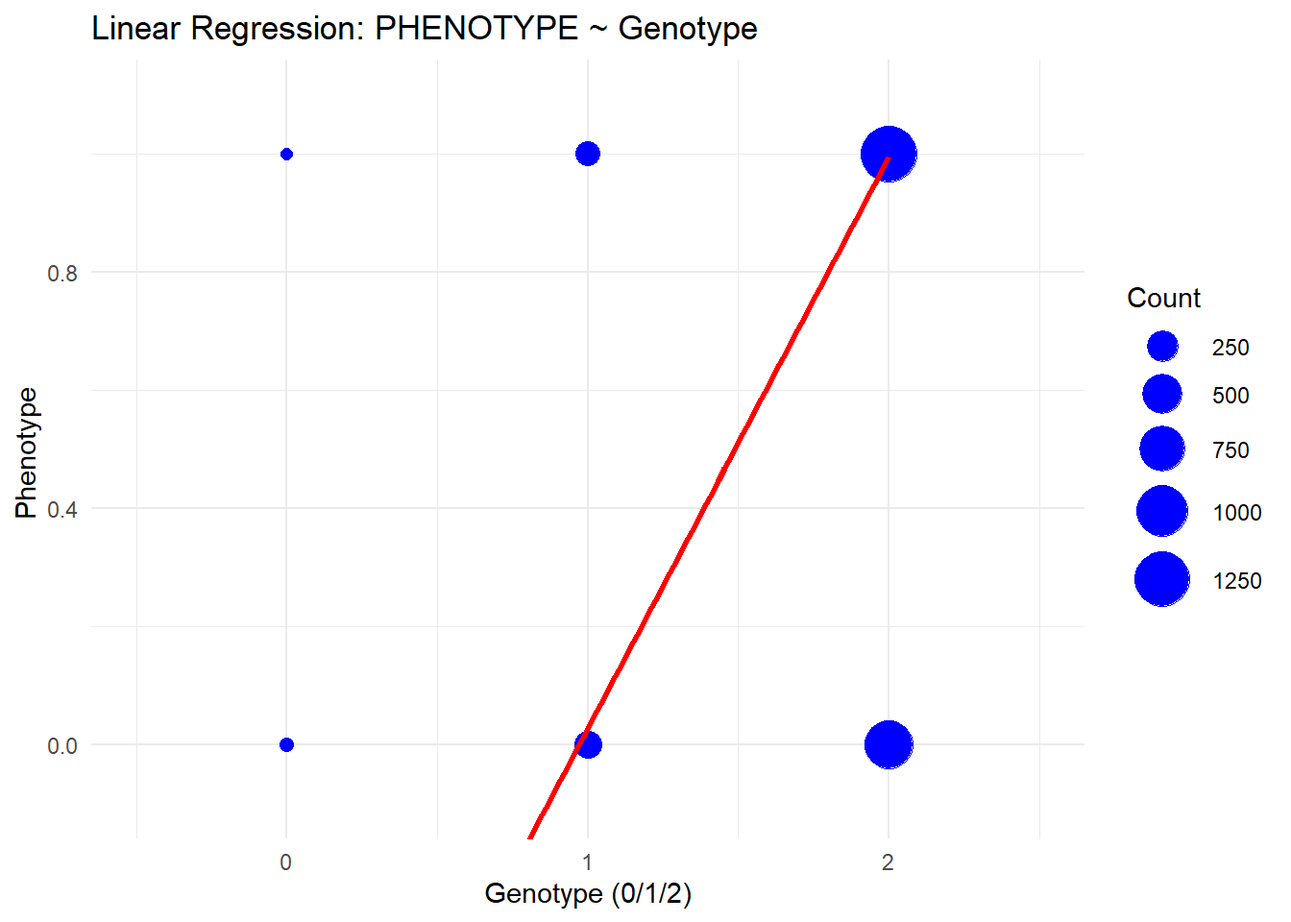
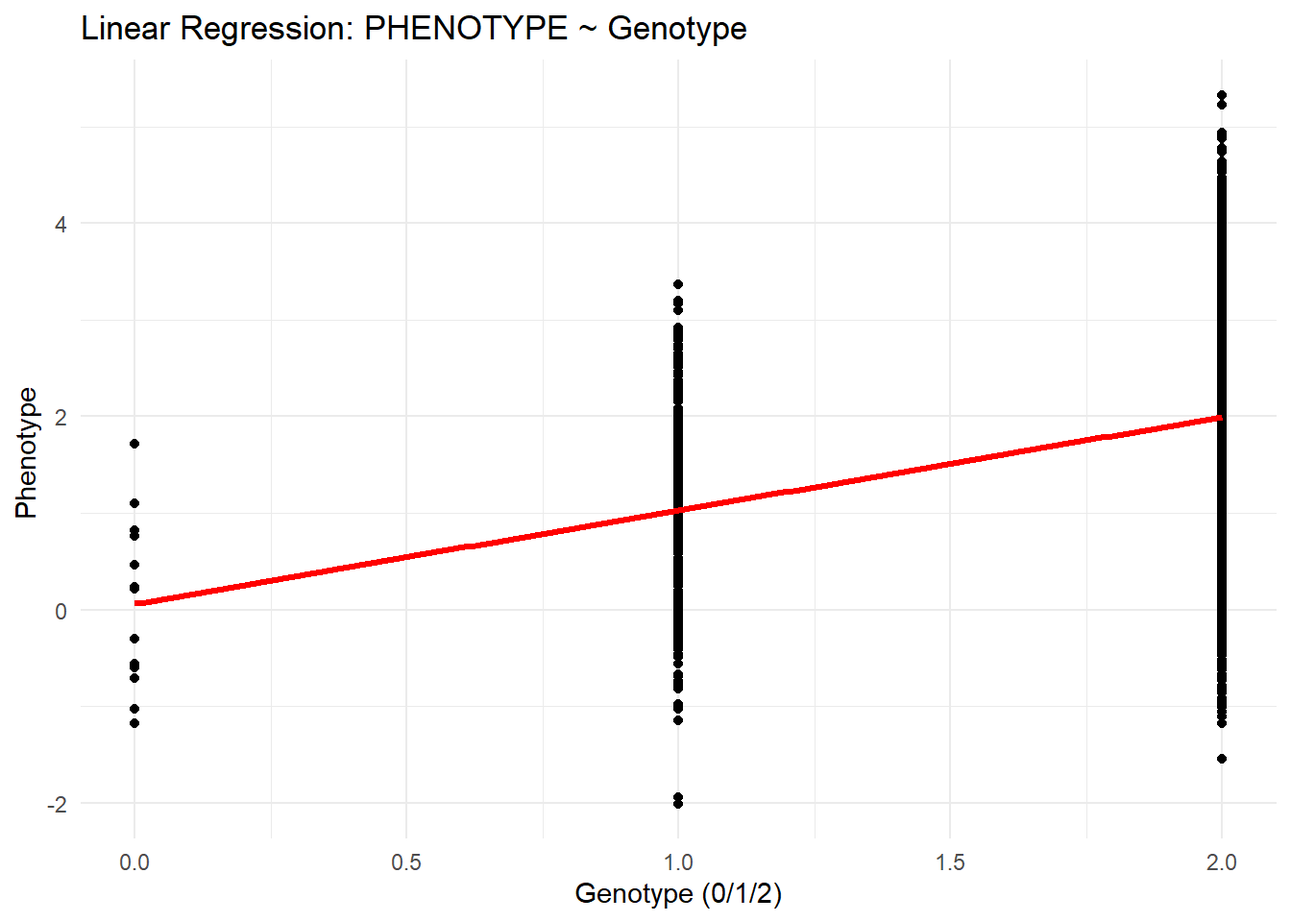
Re-rendered the Quarto document.

diff --git a/02_activities/assignments/assignment_1.html b/02_activities/assignments/assignment_1.html
@@ -161,12 +161,11 @@ pre > code.sourceCode > span > a:first-child::before { text-decoration: underlin
 <li>Load the genotype matrix for SNPs rs1861, rs3813199, rs3128342, and rs11804831 using additive coding. What are the allele frequencies (AFs) for these four SNPs?</li>
 </ol>
 <div class="cell">
-<div class="code-copy-outer-scaffold"><div class="sourceCode cell-code" id="cb8"><pre class="sourceCode bash code-with-copy"><code class="sourceCode bash"><span id="cb8-1"><a href="#cb8-1" aria-hidden="true" tabindex="-1"></a><span class="bu">printf</span> <span class="st">"%s\n"</span> rs1861 rs3813199 rs3128342 rs11804831 <span class="op">&gt;</span> ./02_activities/data/snplist.txt</span>
+<div class="code-copy-outer-scaffold"><div class="sourceCode cell-code" id="cb8"><pre class="sourceCode bash code-with-copy"><code class="sourceCode bash"><span id="cb8-1"><a href="#cb8-1" aria-hidden="true" tabindex="-1"></a><span class="bu">printf</span> <span class="st">"%s\n"</span> rs1861 rs3813199 rs3128342 rs11804831 <span class="op">&gt;</span> ./gen_data/02_activities/data/snplist.txt</span>
 <span id="cb8-2"><a href="#cb8-2" aria-hidden="true" tabindex="-1"></a></span>
 <span id="cb8-3"><a href="#cb8-3" aria-hidden="true" tabindex="-1"></a><span class="ex">plink2</span> <span class="at">--bfile</span> ./gen_data/02_activities/data/gwa.qc.A1 <span class="at">--extract</span> ./gen_data/02_activities/data/snplist.txt <span class="at">--freq</span> <span class="at">--out</span> ./gen_data/02_activities/data/gwa_qc_A1_freq</span></code></pre></div><button title="Copy to Clipboard" class="code-copy-button"><i class="bi"></i></button></div>
 <div class="cell-output cell-output-stdout">
-<pre><code>/c/PROGRA~1/Git/usr/bin/bash: line 1: ./02_activities/data/snplist.txt: No such file or directory
-PLINK v2.0.0-a.7 AVX2 (10 Jan 2026)                 cog-genomics.org/plink/2.0/
+<pre><code>PLINK v2.0.0-a.7 AVX2 (10 Jan 2026)                 cog-genomics.org/plink/2.0/
 (C) 2005-2026 Shaun Purcell, Christopher Chang    GNU General Public License v3
 Logging to ./gen_data/02_activities/data/gwa_qc_A1_freq.log.
 Options in effect:
@@ -175,8 +174,9 @@ Options in effect:
   --freq
   --out ./gen_data/02_activities/data/gwa_qc_A1_freq
 
-Start time: Fri Mar 13 14:33:37 2026
+Start time: Sat Mar 14 13:58:21 2026
 12046 MiB RAM detected; reserving 6023 MiB for main workspace.
+Allocated 4517 MiB successfully, after larger attempt(s) failed.
 Using up to 12 threads (change this with --threads).
 4000 samples (2000 females, 2000 males; 4000 founders) loaded from
 ./gen_data/02_activities/data/gwa.qc.A1.fam.
@@ -187,7 +187,7 @@ Calculating allele frequencies... 0%done.
 --freq: 0%25%50%75%
 --freq: Allele frequencies (founders only) written to
 ./gen_data/02_activities/data/gwa_qc_A1_freq.afreq .
-End time: Fri Mar 13 14:33:37 2026</code></pre>
+End time: Sat Mar 14 13:58:22 2026</code></pre>
 </div>
 </div>
 <div class="cell">
@@ -202,10 +202,10 @@ End time: Fri Mar 13 14:33:37 2026</code></pre>
 3:      1  rs3128342      C      A                Y 0.3051210   7928
 4:      1     rs1861      C      A                Y 0.0539859   7928</code></pre>
 </div>
-<div class="code-copy-outer-scaffold"><div class="sourceCode cell-code" id="cb12"><pre class="sourceCode r code-with-copy"><code class="sourceCode r"><span id="cb12-1"><a href="#cb12-1" aria-hidden="true" tabindex="-1"></a><span class="co">#rs3813199 AF is 0.0569126</span></span>
-<span id="cb12-2"><a href="#cb12-2" aria-hidden="true" tabindex="-1"></a><span class="co">#rs11804831 AF is 0.154341</span></span>
-<span id="cb12-3"><a href="#cb12-3" aria-hidden="true" tabindex="-1"></a><span class="co">#rs3128342 AF is 0.304121</span></span>
-<span id="cb12-4"><a href="#cb12-4" aria-hidden="true" tabindex="-1"></a><span class="co">#rs1861 AF is 0.0539859</span></span></code></pre></div><button title="Copy to Clipboard" class="code-copy-button"><i class="bi"></i></button></div>
+<div class="code-copy-outer-scaffold"><div class="sourceCode cell-code" id="cb12"><pre class="sourceCode r code-with-copy"><code class="sourceCode r"><span id="cb12-1"><a href="#cb12-1" aria-hidden="true" tabindex="-1"></a><span class="co">#rs3813199 alt AF is 0.0569126. The ref AF is 0.943087.</span></span>
+<span id="cb12-2"><a href="#cb12-2" aria-hidden="true" tabindex="-1"></a><span class="co">#rs11804831 AF is 0.154341. The ref AF is 0.845659.</span></span>
+<span id="cb12-3"><a href="#cb12-3" aria-hidden="true" tabindex="-1"></a><span class="co">#rs3128342 AF is 0.304121. The ref AF is 0.694879.</span></span>
+<span id="cb12-4"><a href="#cb12-4" aria-hidden="true" tabindex="-1"></a><span class="co">#rs1861 AF is 0.0539859. The ref AF is 0.946014.</span></span></code></pre></div><button title="Copy to Clipboard" class="code-copy-button"><i class="bi"></i></button></div>
 </div>
 <ol start="2" type="i">
 <li>What are the minor allele frequencies (MAFs) for these four SNPs?</li>
@@ -223,9 +223,9 @@ Options in effect:
   --maf 0.5
   --out ./gen_data/02_activities/data/gwa_qc_A1_maf
 
-Start time: Fri Mar 13 14:33:37 2026
+Start time: Sat Mar 14 13:58:22 2026
 12046 MiB RAM detected; reserving 6023 MiB for main workspace.
-Allocated 3387 MiB successfully, after larger attempt(s) failed.
+Allocated 4517 MiB successfully, after larger attempt(s) failed.
 Using up to 12 threads (change this with --threads).
 4000 samples (2000 females, 2000 males; 4000 founders) loaded from
 ./gen_data/02_activities/data/gwa.qc.A1.fam.
@@ -236,7 +236,7 @@ Calculating allele frequencies... 0%done.
 --freq: 0%25%50%75%
 --freq: Allele frequencies (founders only) written to
 ./gen_data/02_activities/data/gwa_qc_A1_maf.afreq .
-End time: Fri Mar 13 14:33:41 2026</code></pre>
+End time: Sat Mar 14 13:58:22 2026</code></pre>
 </div>
 </div>
 <div class="cell">
@@ -272,7 +272,7 @@ Options in effect:
   --hardy
   --out ./gen_data/02_activities/data/gwa_qc_A1_hwe
 
-Start time: Fri Mar 13 14:33:43 2026
+Start time: Sat Mar 14 13:58:22 2026
 12046 MiB RAM detected; reserving 6023 MiB for main workspace.
 Allocated 4517 MiB successfully, after larger attempt(s) failed.
 Using up to 12 threads (change this with --threads).
@@ -284,7 +284,7 @@ Calculating allele frequencies... 0%64%done.
 --hardy: 0%1%2%3%4%5%6%7%8%9%10%11%12%13%14%15%16%17%18%19%20%21%22%23%24%25%26%27%28%29%30%31%32%33%34%35%36%37%38%39%40%41%42%43%44%45%46%47%48%49%50%51%52%53%54%55%56%57%58%59%60%61%62%63%64%65%66%67%68%69%70%71%72%73%74%75%76%77%78%79%80%81%82%83%84%85%86%87%88%89%90%91%92%93%94%95%96%97%98%99%
 --hardy: Autosomal Hardy-Weinberg report (founders only) written to
 ./gen_data/02_activities/data/gwa_qc_A1_hwe.hardy .
-End time: Fri Mar 13 14:33:44 2026</code></pre>
+End time: Sat Mar 14 13:58:24 2026</code></pre>
 </div>
 </div>
 <div class="cell">
@@ -331,9 +331,9 @@ Options in effect:
   --hardy
   --out ./gen_data/02_activities/data/gwa_qc_A1_subset_hwe
 
-Start time: Fri Mar 13 14:33:45 2026
+Start time: Sat Mar 14 13:58:24 2026
 12046 MiB RAM detected; reserving 6023 MiB for main workspace.
-Allocated 3387 MiB successfully, after larger attempt(s) failed.
+Allocated 2540 MiB successfully, after larger attempt(s) failed.
 Using up to 12 threads (change this with --threads).
 4000 samples (2000 females, 2000 males; 4000 founders) loaded from
 ./gen_data/02_activities/data/gwa.qc.A1.fam.
@@ -344,7 +344,7 @@ Calculating allele frequencies... 0%done.
 --hardy: 0%25%50%75%
 --hardy: Autosomal Hardy-Weinberg report (founders only) written to
 ./gen_data/02_activities/data/gwa_qc_A1_subset_hwe.hardy .
-End time: Fri Mar 13 14:33:49 2026
+End time: Sat Mar 14 13:58:27 2026
 #CHROM  ID  A1  AX  HOM_A1_CT   HET_A1_CT   TWO_AX_CT   O(HET_A1)   E(HET_A1)   P
 1   rs3813199   G   A   3531    428 12  0.107781    0.107347    1
 1   rs11804831  T   C   2820    1061    81  0.267794    0.26104 0.113354
@@ -370,7 +370,7 @@ Options in effect:
   --extract ./gen_data/02_activities/data/snplist.txt
   --out ./gen_data/02_activities/data/geno.additive
 
-Start time: Fri Mar 13 14:33:52 2026
+Start time: Sat Mar 14 13:58:27 2026
 12046 MiB RAM detected; reserving 6023 MiB for main workspace.
 Allocated 3387 MiB successfully, after larger attempt(s) failed.
 Using up to 12 threads (change this with --threads).
@@ -383,19 +383,16 @@ Using up to 12 threads (change this with --threads).
 
 --export A pass 1/1: loading... 0%writing... 0%1%2%3%4%5%6%7%8%9%10%11%12%13%14%15%16%17%18%19%20%21%22%23%24%25%26%27%28%29%30%31%32%33%34%35%36%37%38%39%40%41%42%43%44%45%46%47%48%49%50%51%52%53%54%55%56%57%58%59%60%61%62%63%64%65%66%67%68%69%70%71%72%73%74%75%76%77%78%79%80%81%82%83%84%85%86%87%88%89%90%91%92%93%94%95%96%97%98%99% done.
 --export A: ./gen_data/02_activities/data/geno.additive.raw written.
-End time: Fri Mar 13 14:33:56 2026</code></pre>
+End time: Sat Mar 14 13:58:30 2026</code></pre>
 </div>
 </div>
 <div class="cell">
 <div class="code-copy-outer-scaffold"><div class="sourceCode cell-code" id="cb26"><pre class="sourceCode r code-with-copy"><code class="sourceCode r"><span id="cb26-1"><a href="#cb26-1" aria-hidden="true" tabindex="-1"></a><span class="co"># Load genotype data</span></span>
 <span id="cb26-2"><a href="#cb26-2" aria-hidden="true" tabindex="-1"></a>geno_subset <span class="ot">&lt;-</span> <span class="fu">fread</span>(<span class="st">"gen_data/02_activities/data/geno.additive.raw"</span>)</span>
 <span id="cb26-3"><a href="#cb26-3" aria-hidden="true" tabindex="-1"></a>geno_subset<span class="ot">=</span><span class="fu">na.omit</span>(geno_subset)</span>
-<span id="cb26-4"><a href="#cb26-4" aria-hidden="true" tabindex="-1"></a>geno_subset<span class="sc">$</span>PHENOTYPE<span class="ot">=</span>geno_subset<span class="sc">$</span>PHENOTYPE<span class="dv">-1</span></span>
-<span id="cb26-5"><a href="#cb26-5" aria-hidden="true" tabindex="-1"></a>freq[freq<span class="sc">$</span>ID<span class="sc">==</span><span class="st">'rs1861'</span>,]</span></code></pre></div><button title="Copy to Clipboard" class="code-copy-button"><i class="bi"></i></button></div>
+<span id="cb26-4"><a href="#cb26-4" aria-hidden="true" tabindex="-1"></a>geno_subset[geno_subset<span class="sc">$</span>ID<span class="sc">==</span><span class="st">'rs1861'</span>,]</span></code></pre></div><button title="Copy to Clipboard" class="code-copy-button"><i class="bi"></i></button></div>
 <div class="cell-output cell-output-stdout">
-<pre><code>   #CHROM     ID    REF    ALT PROVISIONAL_REF? ALT_FREQS OBS_CT
-    &lt;int&gt; &lt;char&gt; &lt;char&gt; &lt;char&gt;           &lt;char&gt;     &lt;num&gt;  &lt;int&gt;
-1:      1 rs1861      C      A                Y 0.0539859   7928</code></pre>
+<pre><code>Empty data.table (0 rows and 10 cols): FID,IID,PAT,MAT,SEX,PHENOTYPE...</code></pre>
 </div>
 <div class="code-copy-outer-scaffold"><div class="sourceCode cell-code" id="cb28"><pre class="sourceCode r code-with-copy"><code class="sourceCode r"><span id="cb28-1"><a href="#cb28-1" aria-hidden="true" tabindex="-1"></a><span class="co"># Fit logistic regression model</span></span>
 <span id="cb28-2"><a href="#cb28-2" aria-hidden="true" tabindex="-1"></a>model <span class="ot">&lt;-</span> <span class="fu">glm</span>(PHENOTYPE <span class="sc">~</span> rs1861_C, <span class="at">data =</span> geno_subset, <span class="at">family =</span> <span class="st">"gaussian"</span>)</span>
@@ -409,7 +406,7 @@ glm(formula = PHENOTYPE ~ rs1861_C, family = "gaussian", data = geno_subset)
 
 Coefficients:
             Estimate Std. Error t value Pr(&gt;|t|)    
-(Intercept) -0.93891    0.09626  -9.753   &lt;2e-16 ***
+(Intercept)  0.06109    0.09626   0.635    0.526    
 rs1861_C     0.96698    0.05016  19.279   &lt;2e-16 ***
 ---
 Signif. codes:  0 '***' 0.001 '**' 0.01 '*' 0.05 '.' 0.1 ' ' 1
@@ -427,7 +424,7 @@ Number of Fisher Scoring iterations: 2</code></pre>
 <ol start="2" type="i">
 <li>How would you interpret the beta coefficient from this regression?</li>
 </ol>
-<pre><code>The regression coefficient for rs1861 is 0.96698 (p &lt;2e-16). This indicates that each additional copy of the C allele is almost 1 to 1 linearly associated with increased odds of being a case. The significant p-value suggests evidence of an association between this SNP and the phenotype in our sample.
+<pre><code>The regression coefficient for rs1861 is 0.96698 (p &lt;2e-16). This indicates that each additional copy of the C allele is almost 1 to 1 linearly associated with increased odds of the expected phenotype. The significant p-value suggests evidence of an association between this SNP and the phenotype in our sample.
 </code></pre>
 <ol start="3" type="i">
 <li>Plot the scatterplot of phenotype versus the genotype of SNP rs1861. Add the regression line to the plot.</li>
@@ -441,49 +438,29 @@ Number of Fisher Scoring iterations: 2</code></pre>
 <span id="cb32-6"><a href="#cb32-6" aria-hidden="true" tabindex="-1"></a><span class="co"># for each genotype value in geno_range</span></span>
 <span id="cb32-7"><a href="#cb32-7" aria-hidden="true" tabindex="-1"></a> geno_range<span class="sc">$</span>predicted_prob <span class="ot">&lt;-</span> <span class="fu">predict</span>(model, <span class="at">newdata =</span> geno_range, <span class="at">type =</span> <span class="st">"response"</span>)</span>
 <span id="cb32-8"><a href="#cb32-8" aria-hidden="true" tabindex="-1"></a></span>
-<span id="cb32-9"><a href="#cb32-9" aria-hidden="true" tabindex="-1"></a><span class="co"># Start from the observed genotype dataset</span></span>
-<span id="cb32-10"><a href="#cb32-10" aria-hidden="true" tabindex="-1"></a>count_data <span class="ot">&lt;-</span> geno_subset <span class="sc">%&gt;%</span></span>
-<span id="cb32-11"><a href="#cb32-11" aria-hidden="true" tabindex="-1"></a><span class="co"># Round phenotype values to the nearest integer</span></span>
-<span id="cb32-12"><a href="#cb32-12" aria-hidden="true" tabindex="-1"></a>  <span class="fu">mutate</span>(<span class="at">PHENOTYPE =</span> <span class="fu">round</span>(PHENOTYPE)) <span class="sc">%&gt;%</span>  </span>
-<span id="cb32-13"><a href="#cb32-13" aria-hidden="true" tabindex="-1"></a><span class="co"># Remove rows with missing genotype or missing phenotype</span></span>
-<span id="cb32-14"><a href="#cb32-14" aria-hidden="true" tabindex="-1"></a>  <span class="fu">filter</span>(<span class="sc">!</span><span class="fu">is.na</span>(rs1861_C), <span class="sc">!</span><span class="fu">is.na</span>(PHENOTYPE)) <span class="sc">%&gt;%</span></span>
-<span id="cb32-15"><a href="#cb32-15" aria-hidden="true" tabindex="-1"></a> <span class="co"># Group data by genotype value and phenotype category </span></span>
-<span id="cb32-16"><a href="#cb32-16" aria-hidden="true" tabindex="-1"></a>  <span class="fu">group_by</span>(rs1861_C, PHENOTYPE) <span class="sc">%&gt;%</span></span>
-<span id="cb32-17"><a href="#cb32-17" aria-hidden="true" tabindex="-1"></a><span class="co"># Count how many observations fall into each genotype-phenotype combination</span></span>
-<span id="cb32-18"><a href="#cb32-18" aria-hidden="true" tabindex="-1"></a>  <span class="fu">summarise</span>(<span class="at">count =</span> <span class="fu">n</span>(), <span class="at">.groups =</span> <span class="st">"drop"</span>)</span>
-<span id="cb32-19"><a href="#cb32-19" aria-hidden="true" tabindex="-1"></a></span>
-<span id="cb32-20"><a href="#cb32-20" aria-hidden="true" tabindex="-1"></a><span class="co"># Start building the plot</span></span>
-<span id="cb32-21"><a href="#cb32-21" aria-hidden="true" tabindex="-1"></a>p1<span class="ot">=</span><span class="fu">ggplot</span>() <span class="sc">+</span></span>
-<span id="cb32-22"><a href="#cb32-22" aria-hidden="true" tabindex="-1"></a><span class="co"># Add points showing observed genotype-phenotype combinations</span></span>
-<span id="cb32-23"><a href="#cb32-23" aria-hidden="true" tabindex="-1"></a>  <span class="fu">geom_point</span>(</span>
-<span id="cb32-24"><a href="#cb32-24" aria-hidden="true" tabindex="-1"></a>    <span class="co"># Use the summarized count_data for the points</span></span>
-<span id="cb32-25"><a href="#cb32-25" aria-hidden="true" tabindex="-1"></a>    <span class="at">data =</span> count_data,</span>
-<span id="cb32-26"><a href="#cb32-26" aria-hidden="true" tabindex="-1"></a>    <span class="co"># Map genotype to x-axis, phenotype to y-axis, and count to point size</span></span>
-<span id="cb32-27"><a href="#cb32-27" aria-hidden="true" tabindex="-1"></a>    <span class="fu">aes</span>(<span class="at">x =</span> rs1861_C, <span class="at">y =</span> PHENOTYPE, <span class="at">size =</span> count),</span>
-<span id="cb32-28"><a href="#cb32-28" aria-hidden="true" tabindex="-1"></a>    <span class="at">color =</span> <span class="st">"blue"</span></span>
-<span id="cb32-29"><a href="#cb32-29" aria-hidden="true" tabindex="-1"></a>  ) <span class="sc">+</span></span>
-<span id="cb32-30"><a href="#cb32-30" aria-hidden="true" tabindex="-1"></a>  <span class="co"># Add a regression line showing predicted probability across genotype values</span></span>
-<span id="cb32-31"><a href="#cb32-31" aria-hidden="true" tabindex="-1"></a>  <span class="fu">geom_line</span>(<span class="co"># Use the prediction data frame for the line</span></span>
-<span id="cb32-32"><a href="#cb32-32" aria-hidden="true" tabindex="-1"></a>    <span class="at">data =</span> geno_range,</span>
-<span id="cb32-33"><a href="#cb32-33" aria-hidden="true" tabindex="-1"></a>    <span class="fu">aes</span>(<span class="at">x =</span> rs1861_C, <span class="at">y =</span> predicted_prob),</span>
-<span id="cb32-34"><a href="#cb32-34" aria-hidden="true" tabindex="-1"></a>    <span class="at">color =</span> <span class="st">"red"</span>,</span>
-<span id="cb32-35"><a href="#cb32-35" aria-hidden="true" tabindex="-1"></a>    <span class="co"># Set line thickness</span></span>
-<span id="cb32-36"><a href="#cb32-36" aria-hidden="true" tabindex="-1"></a>    <span class="at">size =</span> <span class="fl">1.2</span></span>
-<span id="cb32-37"><a href="#cb32-37" aria-hidden="true" tabindex="-1"></a>  ) <span class="sc">+</span></span>
-<span id="cb32-38"><a href="#cb32-38" aria-hidden="true" tabindex="-1"></a>  <span class="co"># Control the size range of the points</span></span>
-<span id="cb32-39"><a href="#cb32-39" aria-hidden="true" tabindex="-1"></a>  <span class="fu">scale_size_continuous</span>(<span class="at">range =</span> <span class="fu">c</span>(<span class="dv">2</span>, <span class="dv">10</span>)) <span class="sc">+</span></span>
-<span id="cb32-40"><a href="#cb32-40" aria-hidden="true" tabindex="-1"></a>  <span class="fu">labs</span>(</span>
-<span id="cb32-41"><a href="#cb32-41" aria-hidden="true" tabindex="-1"></a>    <span class="at">title =</span> <span class="st">"Linear Regression: PHENOTYPE ~ Genotype"</span>,</span>
-<span id="cb32-42"><a href="#cb32-42" aria-hidden="true" tabindex="-1"></a>    <span class="at">x =</span> <span class="st">"Genotype (0/1/2)"</span>,</span>
-<span id="cb32-43"><a href="#cb32-43" aria-hidden="true" tabindex="-1"></a>    <span class="at">y =</span> <span class="st">"Phenotype "</span>,</span>
-<span id="cb32-44"><a href="#cb32-44" aria-hidden="true" tabindex="-1"></a>    <span class="at">size =</span> <span class="st">"Count"</span></span>
-<span id="cb32-45"><a href="#cb32-45" aria-hidden="true" tabindex="-1"></a>  ) <span class="sc">+</span></span>
-<span id="cb32-46"><a href="#cb32-46" aria-hidden="true" tabindex="-1"></a>  <span class="co"># Restrict the visible x- and y-axis range</span></span>
-<span id="cb32-47"><a href="#cb32-47" aria-hidden="true" tabindex="-1"></a>  <span class="fu">coord_cartesian</span>(<span class="at">xlim =</span> <span class="fu">c</span>(<span class="sc">-</span><span class="fl">0.5</span>, <span class="fl">2.5</span>), <span class="at">ylim =</span> <span class="fu">c</span>(<span class="sc">-</span><span class="fl">0.1</span>, <span class="fl">1.1</span>)) <span class="sc">+</span></span>
-<span id="cb32-48"><a href="#cb32-48" aria-hidden="true" tabindex="-1"></a>   <span class="co"># Apply a minimal theme for a clean appearance</span></span>
-<span id="cb32-49"><a href="#cb32-49" aria-hidden="true" tabindex="-1"></a>  <span class="fu">theme_minimal</span>()</span>
-<span id="cb32-50"><a href="#cb32-50" aria-hidden="true" tabindex="-1"></a></span>
-<span id="cb32-51"><a href="#cb32-51" aria-hidden="true" tabindex="-1"></a><span class="fu">print</span>(p1)</span></code></pre></div><button title="Copy to Clipboard" class="code-copy-button"><i class="bi"></i></button></div>
+<span id="cb32-9"><a href="#cb32-9" aria-hidden="true" tabindex="-1"></a><span class="co"># Start building the plot</span></span>
+<span id="cb32-10"><a href="#cb32-10" aria-hidden="true" tabindex="-1"></a>p1<span class="ot">=</span><span class="fu">ggplot</span>(geno_subset, <span class="fu">aes</span>(<span class="at">x=</span> rs1861_C, <span class="at">y =</span> PHENOTYPE)) <span class="sc">+</span></span>
+<span id="cb32-11"><a href="#cb32-11" aria-hidden="true" tabindex="-1"></a><span class="co"># Add points showing observed genotype-phenotype combinations</span></span>
+<span id="cb32-12"><a href="#cb32-12" aria-hidden="true" tabindex="-1"></a>  <span class="fu">geom_point</span>() <span class="sc">+</span></span>
+<span id="cb32-13"><a href="#cb32-13" aria-hidden="true" tabindex="-1"></a>  <span class="co"># Add a regression line showing predicted probability across genotype values</span></span>
+<span id="cb32-14"><a href="#cb32-14" aria-hidden="true" tabindex="-1"></a>  <span class="fu">geom_line</span>(<span class="co"># Use the prediction data frame for the line</span></span>
+<span id="cb32-15"><a href="#cb32-15" aria-hidden="true" tabindex="-1"></a>    <span class="at">data =</span> geno_range,</span>
+<span id="cb32-16"><a href="#cb32-16" aria-hidden="true" tabindex="-1"></a>    <span class="fu">aes</span>(<span class="at">x =</span> rs1861_C, <span class="at">y =</span> predicted_prob),</span>
+<span id="cb32-17"><a href="#cb32-17" aria-hidden="true" tabindex="-1"></a>    <span class="at">color =</span> <span class="st">"red"</span>,</span>
+<span id="cb32-18"><a href="#cb32-18" aria-hidden="true" tabindex="-1"></a>    <span class="co"># Set line thickness</span></span>
+<span id="cb32-19"><a href="#cb32-19" aria-hidden="true" tabindex="-1"></a>    <span class="at">size =</span> <span class="fl">1.2</span></span>
+<span id="cb32-20"><a href="#cb32-20" aria-hidden="true" tabindex="-1"></a>  ) <span class="sc">+</span></span>
+<span id="cb32-21"><a href="#cb32-21" aria-hidden="true" tabindex="-1"></a>  <span class="co"># Control the size range of the points</span></span>
+<span id="cb32-22"><a href="#cb32-22" aria-hidden="true" tabindex="-1"></a>  <span class="fu">scale_size_continuous</span>(<span class="at">range =</span> <span class="fu">c</span>(<span class="dv">2</span>, <span class="dv">10</span>)) <span class="sc">+</span></span>
+<span id="cb32-23"><a href="#cb32-23" aria-hidden="true" tabindex="-1"></a>  <span class="fu">labs</span>(</span>
+<span id="cb32-24"><a href="#cb32-24" aria-hidden="true" tabindex="-1"></a>    <span class="at">title =</span> <span class="st">"Linear Regression: PHENOTYPE ~ Genotype"</span>,</span>
+<span id="cb32-25"><a href="#cb32-25" aria-hidden="true" tabindex="-1"></a>    <span class="at">x =</span> <span class="st">"Genotype (0/1/2)"</span>,</span>
+<span id="cb32-26"><a href="#cb32-26" aria-hidden="true" tabindex="-1"></a>    <span class="at">y =</span> <span class="st">"Phenotype "</span></span>
+<span id="cb32-27"><a href="#cb32-27" aria-hidden="true" tabindex="-1"></a>  ) <span class="sc">+</span></span>
+<span id="cb32-28"><a href="#cb32-28" aria-hidden="true" tabindex="-1"></a>   <span class="co"># Apply a minimal theme for a clean appearance</span></span>
+<span id="cb32-29"><a href="#cb32-29" aria-hidden="true" tabindex="-1"></a>  <span class="fu">theme_minimal</span>()</span>
+<span id="cb32-30"><a href="#cb32-30" aria-hidden="true" tabindex="-1"></a></span>
+<span id="cb32-31"><a href="#cb32-31" aria-hidden="true" tabindex="-1"></a><span class="fu">print</span>(p1)</span></code></pre></div><button title="Copy to Clipboard" class="code-copy-button"><i class="bi"></i></button></div>
 <div class="cell-output-display">
 <div>
 <figure class="figure">
@@ -497,8 +474,8 @@ Number of Fisher Scoring iterations: 2</code></pre>
 <li>Convert the genotype coding for rs1861 to recessive coding.</li>
 </ol>
 <div class="cell">
-<div class="code-copy-outer-scaffold"><div class="sourceCode cell-code" id="cb34"><pre class="sourceCode r code-with-copy"><code class="sourceCode r"><span id="cb34-1"><a href="#cb34-1" aria-hidden="true" tabindex="-1"></a>geno_subset_dom <span class="ot">&lt;-</span> geno_subset  <span class="co"># make a copy</span></span>
-<span id="cb34-2"><a href="#cb34-2" aria-hidden="true" tabindex="-1"></a>geno_subset_dom[, <span class="dv">7</span><span class="sc">:</span><span class="fu">ncol</span>(geno_subset_dom)] <span class="ot">&lt;-</span> <span class="fu">as.data.frame</span>(</span>
+<div class="code-copy-outer-scaffold"><div class="sourceCode cell-code" id="cb34"><pre class="sourceCode r code-with-copy"><code class="sourceCode r"><span id="cb34-1"><a href="#cb34-1" aria-hidden="true" tabindex="-1"></a>geno_subset_rec <span class="ot">&lt;-</span> geno_subset  <span class="co"># make a copy</span></span>
+<span id="cb34-2"><a href="#cb34-2" aria-hidden="true" tabindex="-1"></a>geno_subset_rec[, <span class="dv">7</span><span class="sc">:</span><span class="fu">ncol</span>(geno_subset_rec)] <span class="ot">&lt;-</span> <span class="fu">as.data.frame</span>(</span>
 <span id="cb34-3"><a href="#cb34-3" aria-hidden="true" tabindex="-1"></a>  <span class="fu">lapply</span>(geno_subset[, <span class="dv">7</span><span class="sc">:</span><span class="fu">ncol</span>(geno_subset)], <span class="cf">function</span>(x) <span class="fu">ifelse</span>(x <span class="sc">==</span> <span class="dv">2</span>, <span class="dv">1</span>, <span class="dv">0</span>))</span>
 <span id="cb34-4"><a href="#cb34-4" aria-hidden="true" tabindex="-1"></a>)</span></code></pre></div><button title="Copy to Clipboard" class="code-copy-button"><i class="bi"></i></button></div>
 </div>
@@ -506,17 +483,17 @@ Number of Fisher Scoring iterations: 2</code></pre>
 <li>Conduct a linear regression to test the association between the recessive-coded rs1861 and the phenotype. What is the p-value?</li>
 </ol>
 <div class="cell">
-<div class="code-copy-outer-scaffold"><div class="sourceCode cell-code" id="cb35"><pre class="sourceCode r code-with-copy"><code class="sourceCode r"><span id="cb35-1"><a href="#cb35-1" aria-hidden="true" tabindex="-1"></a>model <span class="ot">&lt;-</span> <span class="fu">glm</span>(PHENOTYPE <span class="sc">~</span> rs1861_C, <span class="at">data =</span> geno_subset_dom, <span class="at">family =</span> <span class="st">"gaussian"</span>)</span>
+<div class="code-copy-outer-scaffold"><div class="sourceCode cell-code" id="cb35"><pre class="sourceCode r code-with-copy"><code class="sourceCode r"><span id="cb35-1"><a href="#cb35-1" aria-hidden="true" tabindex="-1"></a>model <span class="ot">&lt;-</span> <span class="fu">glm</span>(PHENOTYPE <span class="sc">~</span> rs1861_C, <span class="at">data =</span> geno_subset_rec, <span class="at">family =</span> <span class="st">"gaussian"</span>)</span>
 <span id="cb35-2"><a href="#cb35-2" aria-hidden="true" tabindex="-1"></a><span class="fu">summary</span>(model)</span></code></pre></div><button title="Copy to Clipboard" class="code-copy-button"><i class="bi"></i></button></div>
 <div class="cell-output cell-output-stdout">
 <pre><code>
 Call:
-glm(formula = PHENOTYPE ~ rs1861_C, family = "gaussian", data = geno_subset_dom)
+glm(formula = PHENOTYPE ~ rs1861_C, family = "gaussian", data = geno_subset_rec)
 
 Coefficients:
-             Estimate Std. Error t value Pr(&gt;|t|)    
-(Intercept) -0.006248   0.050047  -0.125    0.901    
-rs1861_C     1.001393   0.052882  18.936   &lt;2e-16 ***
+            Estimate Std. Error t value Pr(&gt;|t|)    
+(Intercept)  0.99375    0.05005   19.86   &lt;2e-16 ***
+rs1861_C     1.00139    0.05288   18.94   &lt;2e-16 ***
 ---
 Signif. codes:  0 '***' 0.001 '**' 0.01 '*' 0.05 '.' 0.1 ' ' 1
 
@@ -535,17 +512,17 @@ Number of Fisher Scoring iterations: 2</code></pre>
 </ol>
 <div class="cell">
 <div class="code-copy-outer-scaffold"><div class="sourceCode cell-code" id="cb38"><pre class="sourceCode r code-with-copy"><code class="sourceCode r"><span id="cb38-1"><a href="#cb38-1" aria-hidden="true" tabindex="-1"></a><span class="co"># Fit logistic regression model</span></span>
-<span id="cb38-2"><a href="#cb38-2" aria-hidden="true" tabindex="-1"></a>model <span class="ot">&lt;-</span> <span class="fu">glm</span>(PHENOTYPE <span class="sc">~</span> rs1861_C, <span class="at">data =</span> geno_subset_dom, <span class="at">family =</span> <span class="st">"gaussian"</span>)</span>
+<span id="cb38-2"><a href="#cb38-2" aria-hidden="true" tabindex="-1"></a>model <span class="ot">&lt;-</span> <span class="fu">glm</span>(PHENOTYPE <span class="sc">~</span> rs1861_C, <span class="at">data =</span> geno_subset_rec, <span class="at">family =</span> <span class="st">"gaussian"</span>)</span>
 <span id="cb38-3"><a href="#cb38-3" aria-hidden="true" tabindex="-1"></a><span class="fu">summary</span>(model)</span></code></pre></div><button title="Copy to Clipboard" class="code-copy-button"><i class="bi"></i></button></div>
 <div class="cell-output cell-output-stdout">
 <pre><code>
 Call:
-glm(formula = PHENOTYPE ~ rs1861_C, family = "gaussian", data = geno_subset_dom)
+glm(formula = PHENOTYPE ~ rs1861_C, family = "gaussian", data = geno_subset_rec)
 
 Coefficients:
-             Estimate Std. Error t value Pr(&gt;|t|)    
-(Intercept) -0.006248   0.050047  -0.125    0.901    
-rs1861_C     1.001393   0.052882  18.936   &lt;2e-16 ***
+            Estimate Std. Error t value Pr(&gt;|t|)    
+(Intercept)  0.99375    0.05005   19.86   &lt;2e-16 ***
+rs1861_C     1.00139    0.05288   18.94   &lt;2e-16 ***
 ---
 Signif. codes:  0 '***' 0.001 '**' 0.01 '*' 0.05 '.' 0.1 ' ' 1
 
@@ -562,55 +539,22 @@ Number of Fisher Scoring iterations: 2</code></pre>
 <span id="cb40-3"><a href="#cb40-3" aria-hidden="true" tabindex="-1"></a> )</span>
 <span id="cb40-4"><a href="#cb40-4" aria-hidden="true" tabindex="-1"></a> geno_range<span class="sc">$</span>predicted_prob <span class="ot">&lt;-</span> <span class="fu">predict</span>(model, <span class="at">newdata =</span> geno_range, <span class="at">type =</span> <span class="st">"response"</span>)</span>
 <span id="cb40-5"><a href="#cb40-5" aria-hidden="true" tabindex="-1"></a></span>
-<span id="cb40-6"><a href="#cb40-6" aria-hidden="true" tabindex="-1"></a>count_data <span class="ot">&lt;-</span> geno_subset_dom <span class="sc">%&gt;%</span></span>
-<span id="cb40-7"><a href="#cb40-7" aria-hidden="true" tabindex="-1"></a>  <span class="fu">mutate</span>(<span class="at">PHENOTYPE =</span> <span class="fu">round</span>(PHENOTYPE)) <span class="sc">%&gt;%</span></span>
-<span id="cb40-8"><a href="#cb40-8" aria-hidden="true" tabindex="-1"></a>  <span class="fu">filter</span>(<span class="sc">!</span><span class="fu">is.na</span>(rs1861_C), <span class="sc">!</span><span class="fu">is.na</span>(PHENOTYPE)) <span class="sc">%&gt;%</span></span>
-<span id="cb40-9"><a href="#cb40-9" aria-hidden="true" tabindex="-1"></a>  <span class="fu">group_by</span>(rs1861_C, PHENOTYPE) <span class="sc">%&gt;%</span></span>
-<span id="cb40-10"><a href="#cb40-10" aria-hidden="true" tabindex="-1"></a>  <span class="fu">summarise</span>(<span class="at">count =</span> <span class="fu">n</span>(), <span class="at">.groups =</span> <span class="st">"drop"</span>)</span>
-<span id="cb40-11"><a href="#cb40-11" aria-hidden="true" tabindex="-1"></a></span>
-<span id="cb40-12"><a href="#cb40-12" aria-hidden="true" tabindex="-1"></a><span class="fu">print</span>(count_data)</span></code></pre></div><button title="Copy to Clipboard" class="code-copy-button"><i class="bi"></i></button></div>
-<div class="cell-output cell-output-stdout">
-<pre><code># A tibble: 14 × 3
-   rs1861_C PHENOTYPE count
-      &lt;dbl&gt;     &lt;dbl&gt; &lt;int&gt;
- 1        0        -3     2
- 2        0        -2    20
- 3        0        -1   101
- 4        0         0   157
- 5        0         1    99
- 6        0         2    24
- 7        1        -3     1
- 8        1        -2    27
- 9        1        -1   209
-10        1         0   863
-11        1         1  1280
-12        1         2   840
-13        1         3   222
-14        1         4    17</code></pre>
-</div>
-<div class="code-copy-outer-scaffold"><div class="sourceCode cell-code" id="cb42"><pre class="sourceCode r code-with-copy"><code class="sourceCode r"><span id="cb42-1"><a href="#cb42-1" aria-hidden="true" tabindex="-1"></a>p2<span class="ot">=</span><span class="fu">ggplot</span>() <span class="sc">+</span></span>
-<span id="cb42-2"><a href="#cb42-2" aria-hidden="true" tabindex="-1"></a>  <span class="fu">geom_point</span>(</span>
-<span id="cb42-3"><a href="#cb42-3" aria-hidden="true" tabindex="-1"></a>    <span class="at">data =</span> count_data,</span>
-<span id="cb42-4"><a href="#cb42-4" aria-hidden="true" tabindex="-1"></a>    <span class="fu">aes</span>(<span class="at">x =</span> rs1861_C, <span class="at">y =</span> PHENOTYPE, <span class="at">size =</span> count),</span>
-<span id="cb42-5"><a href="#cb42-5" aria-hidden="true" tabindex="-1"></a>    <span class="at">color =</span> <span class="st">"blue"</span></span>
-<span id="cb42-6"><a href="#cb42-6" aria-hidden="true" tabindex="-1"></a>  ) <span class="sc">+</span></span>
-<span id="cb42-7"><a href="#cb42-7" aria-hidden="true" tabindex="-1"></a>  <span class="fu">geom_line</span>(</span>
-<span id="cb42-8"><a href="#cb42-8" aria-hidden="true" tabindex="-1"></a>    <span class="at">data =</span> geno_range,</span>
-<span id="cb42-9"><a href="#cb42-9" aria-hidden="true" tabindex="-1"></a>    <span class="fu">aes</span>(<span class="at">x =</span> rs1861_C, <span class="at">y =</span> predicted_prob),</span>
-<span id="cb42-10"><a href="#cb42-10" aria-hidden="true" tabindex="-1"></a>    <span class="at">color =</span> <span class="st">"red"</span>,</span>
-<span id="cb42-11"><a href="#cb42-11" aria-hidden="true" tabindex="-1"></a>    <span class="at">size =</span> <span class="fl">1.2</span></span>
-<span id="cb42-12"><a href="#cb42-12" aria-hidden="true" tabindex="-1"></a>  ) <span class="sc">+</span></span>
-<span id="cb42-13"><a href="#cb42-13" aria-hidden="true" tabindex="-1"></a>  <span class="fu">scale_size_continuous</span>(<span class="at">range =</span> <span class="fu">c</span>(<span class="dv">2</span>, <span class="dv">10</span>)) <span class="sc">+</span></span>
-<span id="cb42-14"><a href="#cb42-14" aria-hidden="true" tabindex="-1"></a>  <span class="fu">labs</span>(</span>
-<span id="cb42-15"><a href="#cb42-15" aria-hidden="true" tabindex="-1"></a>    <span class="at">title =</span> <span class="st">"Logistic Regression: PHENOTYPE ~ Genotype"</span>,</span>
-<span id="cb42-16"><a href="#cb42-16" aria-hidden="true" tabindex="-1"></a>    <span class="at">x =</span> <span class="st">"Genotype (0/1)"</span>,</span>
-<span id="cb42-17"><a href="#cb42-17" aria-hidden="true" tabindex="-1"></a>    <span class="at">y =</span> <span class="st">"Phenotype "</span>,</span>
-<span id="cb42-18"><a href="#cb42-18" aria-hidden="true" tabindex="-1"></a>    <span class="at">size =</span> <span class="st">"Count"</span></span>
-<span id="cb42-19"><a href="#cb42-19" aria-hidden="true" tabindex="-1"></a>  ) <span class="sc">+</span></span>
-<span id="cb42-20"><a href="#cb42-20" aria-hidden="true" tabindex="-1"></a>  <span class="fu">coord_cartesian</span>(<span class="at">xlim =</span> <span class="fu">c</span>(<span class="sc">-</span><span class="fl">0.5</span>, <span class="fl">1.5</span>), <span class="at">ylim =</span> <span class="fu">c</span>(<span class="sc">-</span><span class="fl">0.1</span>, <span class="fl">1.1</span>)) <span class="sc">+</span></span>
-<span id="cb42-21"><a href="#cb42-21" aria-hidden="true" tabindex="-1"></a>  <span class="fu">theme_minimal</span>()</span>
-<span id="cb42-22"><a href="#cb42-22" aria-hidden="true" tabindex="-1"></a></span>
-<span id="cb42-23"><a href="#cb42-23" aria-hidden="true" tabindex="-1"></a><span class="fu">print</span>(p2)</span></code></pre></div><button title="Copy to Clipboard" class="code-copy-button"><i class="bi"></i></button></div>
+<span id="cb40-6"><a href="#cb40-6" aria-hidden="true" tabindex="-1"></a>p2<span class="ot">=</span><span class="fu">ggplot</span>(geno_subset_rec, <span class="fu">aes</span>(<span class="at">x =</span> rs1861_C, <span class="at">y =</span> PHENOTYPE)) <span class="sc">+</span></span>
+<span id="cb40-7"><a href="#cb40-7" aria-hidden="true" tabindex="-1"></a>  <span class="fu">geom_point</span>() <span class="sc">+</span></span>
+<span id="cb40-8"><a href="#cb40-8" aria-hidden="true" tabindex="-1"></a>  <span class="fu">geom_line</span>(</span>
+<span id="cb40-9"><a href="#cb40-9" aria-hidden="true" tabindex="-1"></a>    <span class="at">data =</span> geno_range,</span>
+<span id="cb40-10"><a href="#cb40-10" aria-hidden="true" tabindex="-1"></a>    <span class="fu">aes</span>(<span class="at">x =</span> rs1861_C, <span class="at">y =</span> predicted_prob),</span>
+<span id="cb40-11"><a href="#cb40-11" aria-hidden="true" tabindex="-1"></a>    <span class="at">color =</span> <span class="st">"red"</span>,</span>
+<span id="cb40-12"><a href="#cb40-12" aria-hidden="true" tabindex="-1"></a>    <span class="at">size =</span> <span class="fl">1.2</span></span>
+<span id="cb40-13"><a href="#cb40-13" aria-hidden="true" tabindex="-1"></a>  ) <span class="sc">+</span></span>
+<span id="cb40-14"><a href="#cb40-14" aria-hidden="true" tabindex="-1"></a>  <span class="fu">scale_size_continuous</span>(<span class="at">range =</span> <span class="fu">c</span>(<span class="dv">2</span>, <span class="dv">10</span>)) <span class="sc">+</span></span>
+<span id="cb40-15"><a href="#cb40-15" aria-hidden="true" tabindex="-1"></a>  <span class="fu">labs</span>(</span>
+<span id="cb40-16"><a href="#cb40-16" aria-hidden="true" tabindex="-1"></a>    <span class="at">title =</span> <span class="st">"Logistic Regression: PHENOTYPE ~ Genotype"</span>,</span>
+<span id="cb40-17"><a href="#cb40-17" aria-hidden="true" tabindex="-1"></a>    <span class="at">x =</span> <span class="st">"Genotype (0/1)"</span>,</span>
+<span id="cb40-18"><a href="#cb40-18" aria-hidden="true" tabindex="-1"></a>    <span class="at">y =</span> <span class="st">"Phenotype "</span>) <span class="sc">+</span></span>
+<span id="cb40-19"><a href="#cb40-19" aria-hidden="true" tabindex="-1"></a>  <span class="fu">theme_minimal</span>()</span>
+<span id="cb40-20"><a href="#cb40-20" aria-hidden="true" tabindex="-1"></a></span>
+<span id="cb40-21"><a href="#cb40-21" aria-hidden="true" tabindex="-1"></a><span class="fu">print</span>(p2)</span></code></pre></div><button title="Copy to Clipboard" class="code-copy-button"><i class="bi"></i></button></div>
 <div class="cell-output-display">
 <div>
 <figure class="figure">
@@ -618,7 +562,7 @@ Number of Fisher Scoring iterations: 2</code></pre>
 </figure>
 </div>
 </div>
-<div class="code-copy-outer-scaffold"><div class="sourceCode cell-code" id="cb43"><pre class="sourceCode r code-with-copy"><code class="sourceCode r"><span id="cb43-1"><a href="#cb43-1" aria-hidden="true" tabindex="-1"></a><span class="fu">ggsave</span>(<span class="st">"./gen_data/02_activities/data/p2_plot.png"</span>, <span class="at">plot =</span> p2, <span class="at">width =</span> <span class="dv">7</span>, <span class="at">height =</span> <span class="dv">5</span>, <span class="at">dpi =</span> <span class="dv">300</span>)</span></code></pre></div><button title="Copy to Clipboard" class="code-copy-button"><i class="bi"></i></button></div>
+<div class="code-copy-outer-scaffold"><div class="sourceCode cell-code" id="cb41"><pre class="sourceCode r code-with-copy"><code class="sourceCode r"><span id="cb41-1"><a href="#cb41-1" aria-hidden="true" tabindex="-1"></a><span class="fu">ggsave</span>(<span class="st">"./gen_data/02_activities/data/p2_plot.png"</span>, <span class="at">plot =</span> p2, <span class="at">width =</span> <span class="dv">7</span>, <span class="at">height =</span> <span class="dv">5</span>, <span class="at">dpi =</span> <span class="dv">300</span>)</span></code></pre></div><button title="Copy to Clipboard" class="code-copy-button"><i class="bi"></i></button></div>
 </div>
 <ol start="7" type="i">
 <li>Which model fits better? Justify your answer.</li>
